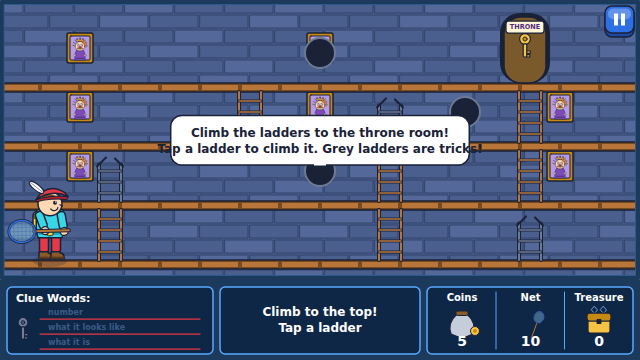
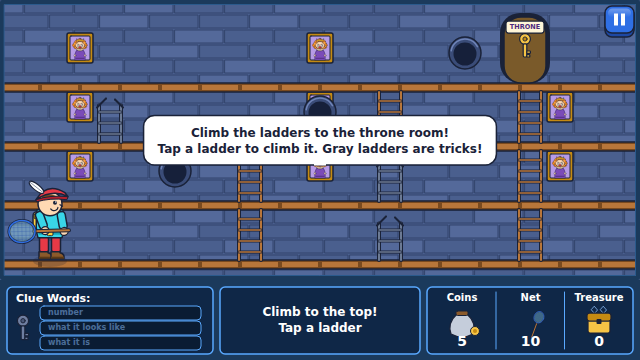
Refresh the site screenshots and the size figures
The gallery is re-rendered from the current build, so it shows the widened
answer buttons, the clue-word slots, the outlined cliff edge, the rebuilt
throne room and the night sky behind the rank poster. Sizes are measured, not
remembered: 200 KB gzipped over the wire and a 215 KB APK (both grew with the
content, which is now 152 entries per science family and ~250 antonym pairs).

Claude-Session: https://claude.ai/code/session_01BCbbHY8h3NqDoAU9R2DSKR

diff --git a/docs/index.html b/docs/index.html
@@ -52,7 +52,7 @@
     <a class="btn" href="#install">Add to home screen</a>
     <a class="btn apk" href="app-release.apk" id="apk">Download for Android (APK)</a>
   </div>
-  <p class="fine">Same game three ways: play right here, add it to your home screen as a web app, or install the native Android app.<br>Free and open source · no ads, no accounts, no internet needed once loaded · the whole game is about <span id="size">400 KB</span>.</p>
+  <p class="fine">Same game three ways: play right here, add it to your home screen as a web app, or install the native Android app.<br>Free and open source · no ads, no accounts, no internet needed once loaded · the whole game is about <span id="size">200 KB</span> over the wire.</p>
 </header>
 <main>
   <div class="hero"><img src="shots/level1.png" alt="The Super Solver with a net on the first level of Treasure Mountain, an elf with a scroll running by, the clue-word panel below" width="640" height="360"></div>
@@ -75,7 +75,7 @@
       <div class="card"><h3>Six grades</h3><p>Pick K, 1st, 2nd, 3rd, 4th or 5th grade on the way in. Every puzzle family has a version for each grade, gets harder from the bottom of the mountain to the top, and again as stars are earned. Each grade keeps its own treasures, stars and prizes.</p></div>
       <div class="card"><h3>41 puzzle families</h3><p><strong>Reading:</strong> rhymes, letter sounds, letters, vowel sounds, compound words, opposites, synonyms, categories, word associations, syllables, plurals and tenses, contractions, homophones, prefixes and suffixes, analogies, ABC order, sentence completion, parts of speech, vocabulary. <strong>Math:</strong> counting, adding and subtracting, comparing, multiplying, dividing, patterns, place value, telling time, money, shapes and geometry, fractions, word problems, factors and primes, measurement. <strong>Thinking:</strong> odd one out, riddles, animals, earth and sky, the body and senses, matter and machines, sequences of events, bigger-heavier-faster.</p></div>
       <div class="card"><h3>Made for small hands</h3><p>Tap the ground to walk, tap an elf to throw the net, big NET / COIN / JUMP buttons, three big answer buttons (four from 3rd grade), a speaker button that reads the riddle aloud, two tries per riddle (three for K and 1st), and no way to lose: out of nets and coins, the rock gives you free nets.</p></div>
-      <div class="card"><h3>Tiny and private</h3><p>All art is vector, all sounds are synthesised. One HTML file of a few hundred kilobytes in the browser, about 130 KB as an APK. Nothing leaves the device; there are no accounts, no ads and no tracking.</p></div>
+      <div class="card"><h3>Tiny and private</h3><p>All art is vector, all sounds are synthesized. One HTML file, 200 KB gzipped in the browser and a 215 KB APK on Android. Nothing leaves the device; there are no accounts, no ads and no tracking.</p></div>
       <div class="card"><h3>Keyboard too</h3><p>On a computer: <kbd>←</kbd> <kbd>→</kbd> walk, <kbd>Space</kbd> swings the net, <kbd>↓</kbd> drops a coin, <kbd>↑</kbd> jumps, climbs and enters tunnels, <kbd>1</kbd>–<kbd>4</kbd> pick an answer, <kbd>Esc</kbd> pauses.</p></div>
     </div>
   </section>
@@ -128,7 +128,7 @@
     <h2>For grown-ups</h2>
     <table>
       <tr><th>Grade</th><th>Reading</th><th>Math</th><th>Thinking &amp; science</th></tr>
-      <tr><td>K</td><td>letters, beginning sounds, rhymes, opposites, categories, sight-word sentences</td><td>counting to 10, adding and subtracting within 5 with pictures, shapes, patterns, coins, clocks on the hour, longer/heavier</td><td>animal sounds and babies, seasons and weather, senses, float/sink, first-next-last, odd one out by colour</td></tr>
+      <tr><td>K</td><td>letters, beginning sounds, rhymes, opposites, categories, sight-word sentences</td><td>counting to 10, adding and subtracting within 5 with pictures, shapes, patterns, coins, clocks on the hour, longer/heavier</td><td>animal sounds and babies, seasons and weather, senses, float/sink, first-next-last, odd one out by color</td></tr>
       <tr><td>1</td><td>ending sounds, digraphs, vowel sounds, compound words, synonyms, plurals, syllables</td><td>counting to 100, within 20, tens and ones, half hours, counting coins, halves and quarters</td><td>homes and groups, sun/moon/stars, body parts, materials, daily routines</td></tr>
       <tr><td>2</td><td>blends, contractions, homophones, ABC order, context clues</td><td>within 100, equal groups, hundreds, five minutes, quarters, thirds, even/odd, thermometers</td><td>animal classes, the water cycle, healthy food, solid/liquid/gas, life cycles</td></tr>
       <tr><td>3</td><td>prefixes and suffixes, analogies, parts of speech, vocabulary</td><td>3-digit sums, multiplication and division facts, rounding, elapsed time, change, perimeter, comparing fractions</td><td>adaptations, planets, organs, magnets and simple machines, procedures</td></tr>
@@ -141,7 +141,7 @@
   <section>
     <h2>About</h2>
     <p>An open-source fan remake of The Learning Company's 1990 <em>Super Solvers: Treasure Mountain!</em>. The rules follow the original (nets, scroll riddles, three clue words, magic coins, keys, tunnels, the net rock, the castle ladders, the chest, the rank poster) with new vector art, big touch targets, read-aloud riddles and six grade levels of content, so that a five-year-old and a ten-year-old can both climb the same mountain.</p>
-    <p>One TypeScript code base runs everywhere: the game logic, puzzles and drawing run in the browser and inside a 130 KB Android WebView shell. The pictures on this page are rendered by the game itself. <a href="https://github.com/gangeli/treasure-mountain">Source code on GitHub</a>.</p>
+    <p>One TypeScript code base runs everywhere: the game logic, puzzles and drawing run in the browser and inside a 215 KB Android WebView shell. The pictures on this page are rendered by the game itself. <a href="https://github.com/gangeli/treasure-mountain">Source code on GitHub</a>.</p>
   </section>
 </main>
 <footer>MIT licensed · Not affiliated with The Learning Company · <a href="play/">Play</a> · <a href="app-release.apk">APK</a> · <a href="https://github.com/gangeli/treasure-mountain">GitHub</a></footer>

diff --git a/README.md b/README.md
@@ -17,8 +17,8 @@ Mischief.
   time, money, shapes, measurement, word problems, animals, earth and sky, the body, matter and
   machines, riddles, odd one out, and more) comes in a version for each grade, and gets harder as
   the child earns stars.
-* **Size:** the whole game is one HTML file of a few hundred kilobytes; the signed APK is about 130 KB.
-  All art is vector, drawn with Canvas 2D; all sound is synthesised. Nothing leaves the device.
+* **Size:** the whole game is one HTML file - 200 KB gzipped over the wire; the signed APK is 215 KB.
+  All art is vector, drawn with Canvas 2D; all sound is synthesized. Nothing leaves the device.
 
 ## Layout
 

diff --git a/docs/DESIGN.md b/docs/DESIGN.md
@@ -18,7 +18,7 @@ how the screens, art and sound are laid out.
 3. **Made for small hands.** Tap-to-walk, big buttons, three (K-2) or four (3-5) answer choices,
    an optional read-aloud button, no time pressure, no way to lose.
 4. **Tiny and private.** One self-contained HTML file (about 580 KB, 185 KB over the wire; the
-   signed APK is under 200 KB); all art is drawn with Canvas 2D, all sound is synthesised. No
+   signed APK is 215 KB); all art is drawn with Canvas 2D, all sound is synthesized. No
    network after first load, nothing leaves the device.
 
 ## 2. What is kept from the original (verbatim rules)
